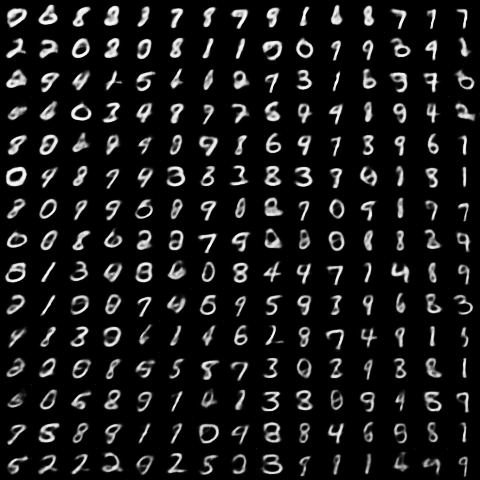
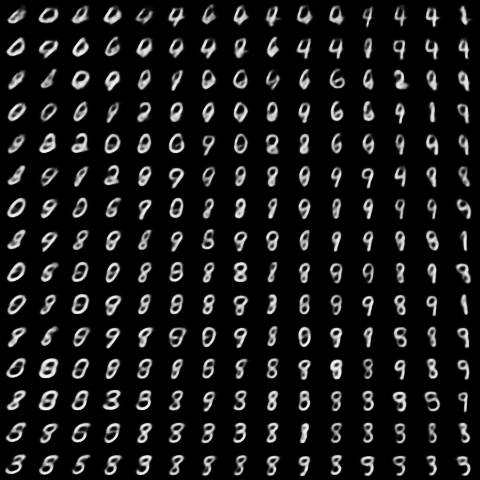
regenerate images

diff --git a/README.md b/README.md
@@ -1,4 +1,14 @@
 # Julia_MINST_VAE
 Educational Implementation of Julia MINST using Variational AutoEncoder
 
-![Image](./images/plot_5_conv_32__3.png)
+# 2 latent variables
+
+![Image](./images/plot_2_conv_32__1.png)
+
+# 3 latent variables
+
+![Image](./images/plot_3_conv_32__2.png)
+
+# 5 latent variables
+
+![Image](./images/plot_5_conv_32__2.png)
